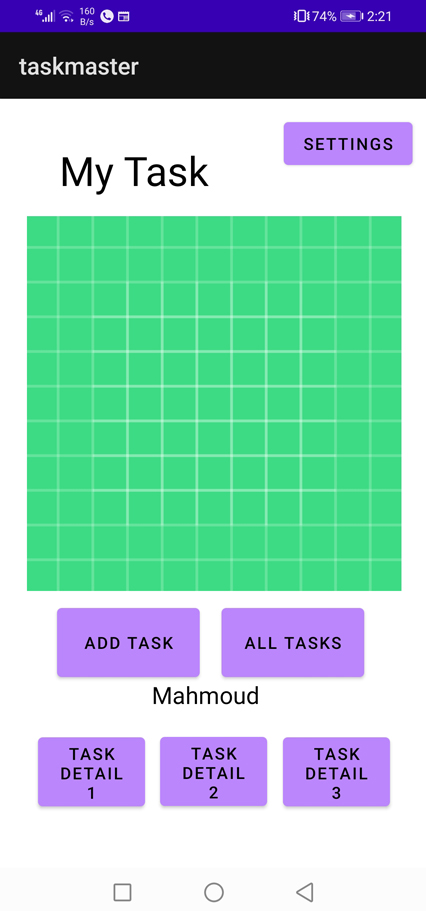
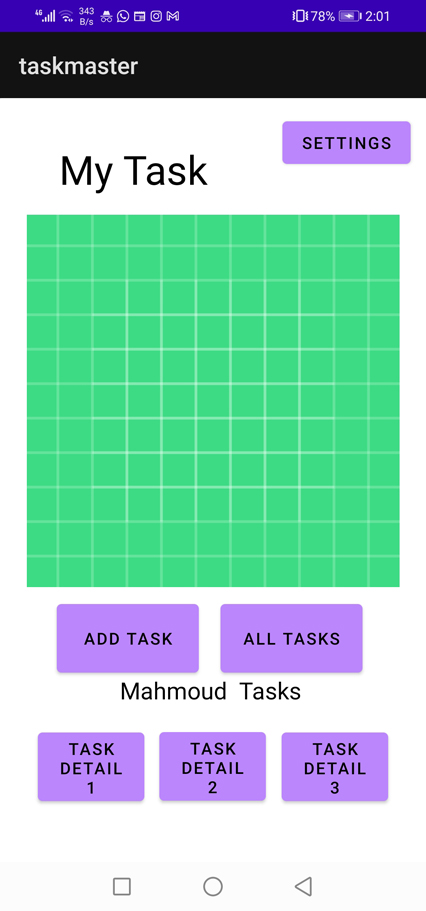
edit settings page

diff --git a/app/src/main/java/com/example/taskmaster/Settings.java b/app/src/main/java/com/example/taskmaster/Settings.java
@@ -27,7 +27,7 @@ public class Settings extends AppCompatActivity {
             String UserName = UserNameEdit.getText().toString();
 
             SharedPreferences ShareUserName = PreferenceManager.getDefaultSharedPreferences(Settings.this);
-            ShareUserName.edit().putString("UserName",UserName).apply();
+            ShareUserName.edit().putString("UserName",UserName +"  Tasks").apply();
             Toast.makeText(getApplicationContext(), "submitted!",Toast.LENGTH_LONG).show();
         }
     });
